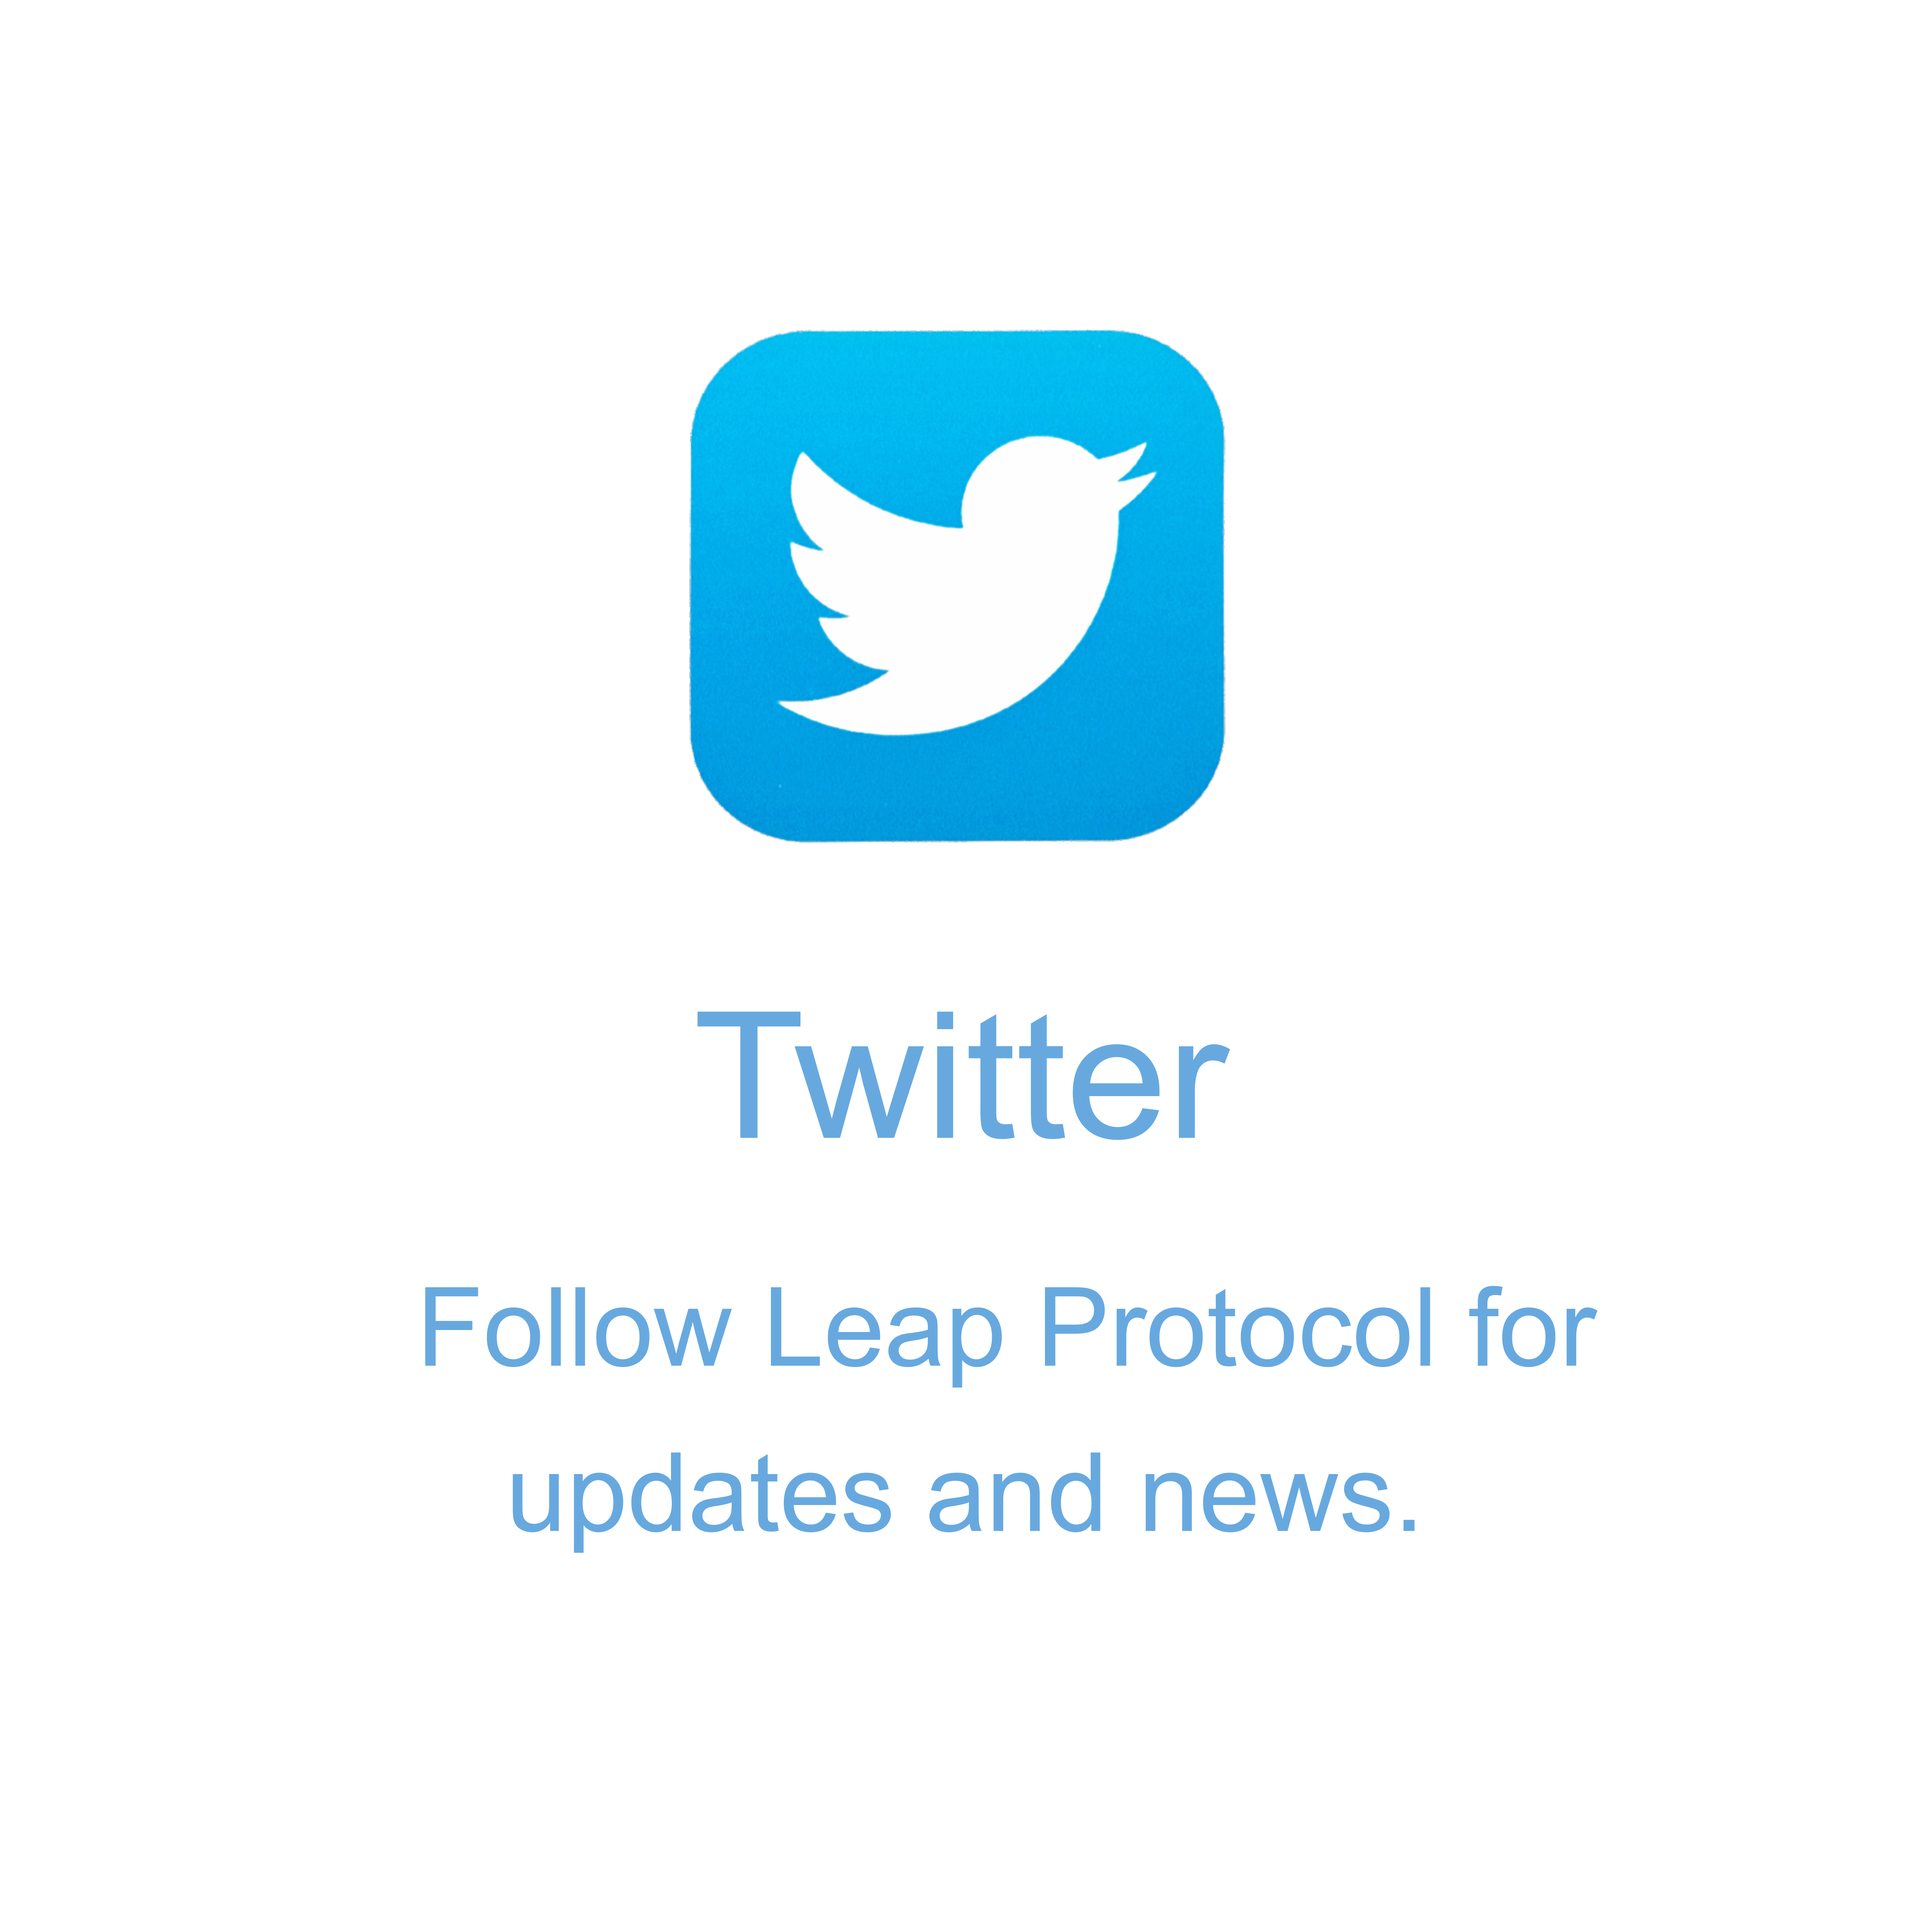
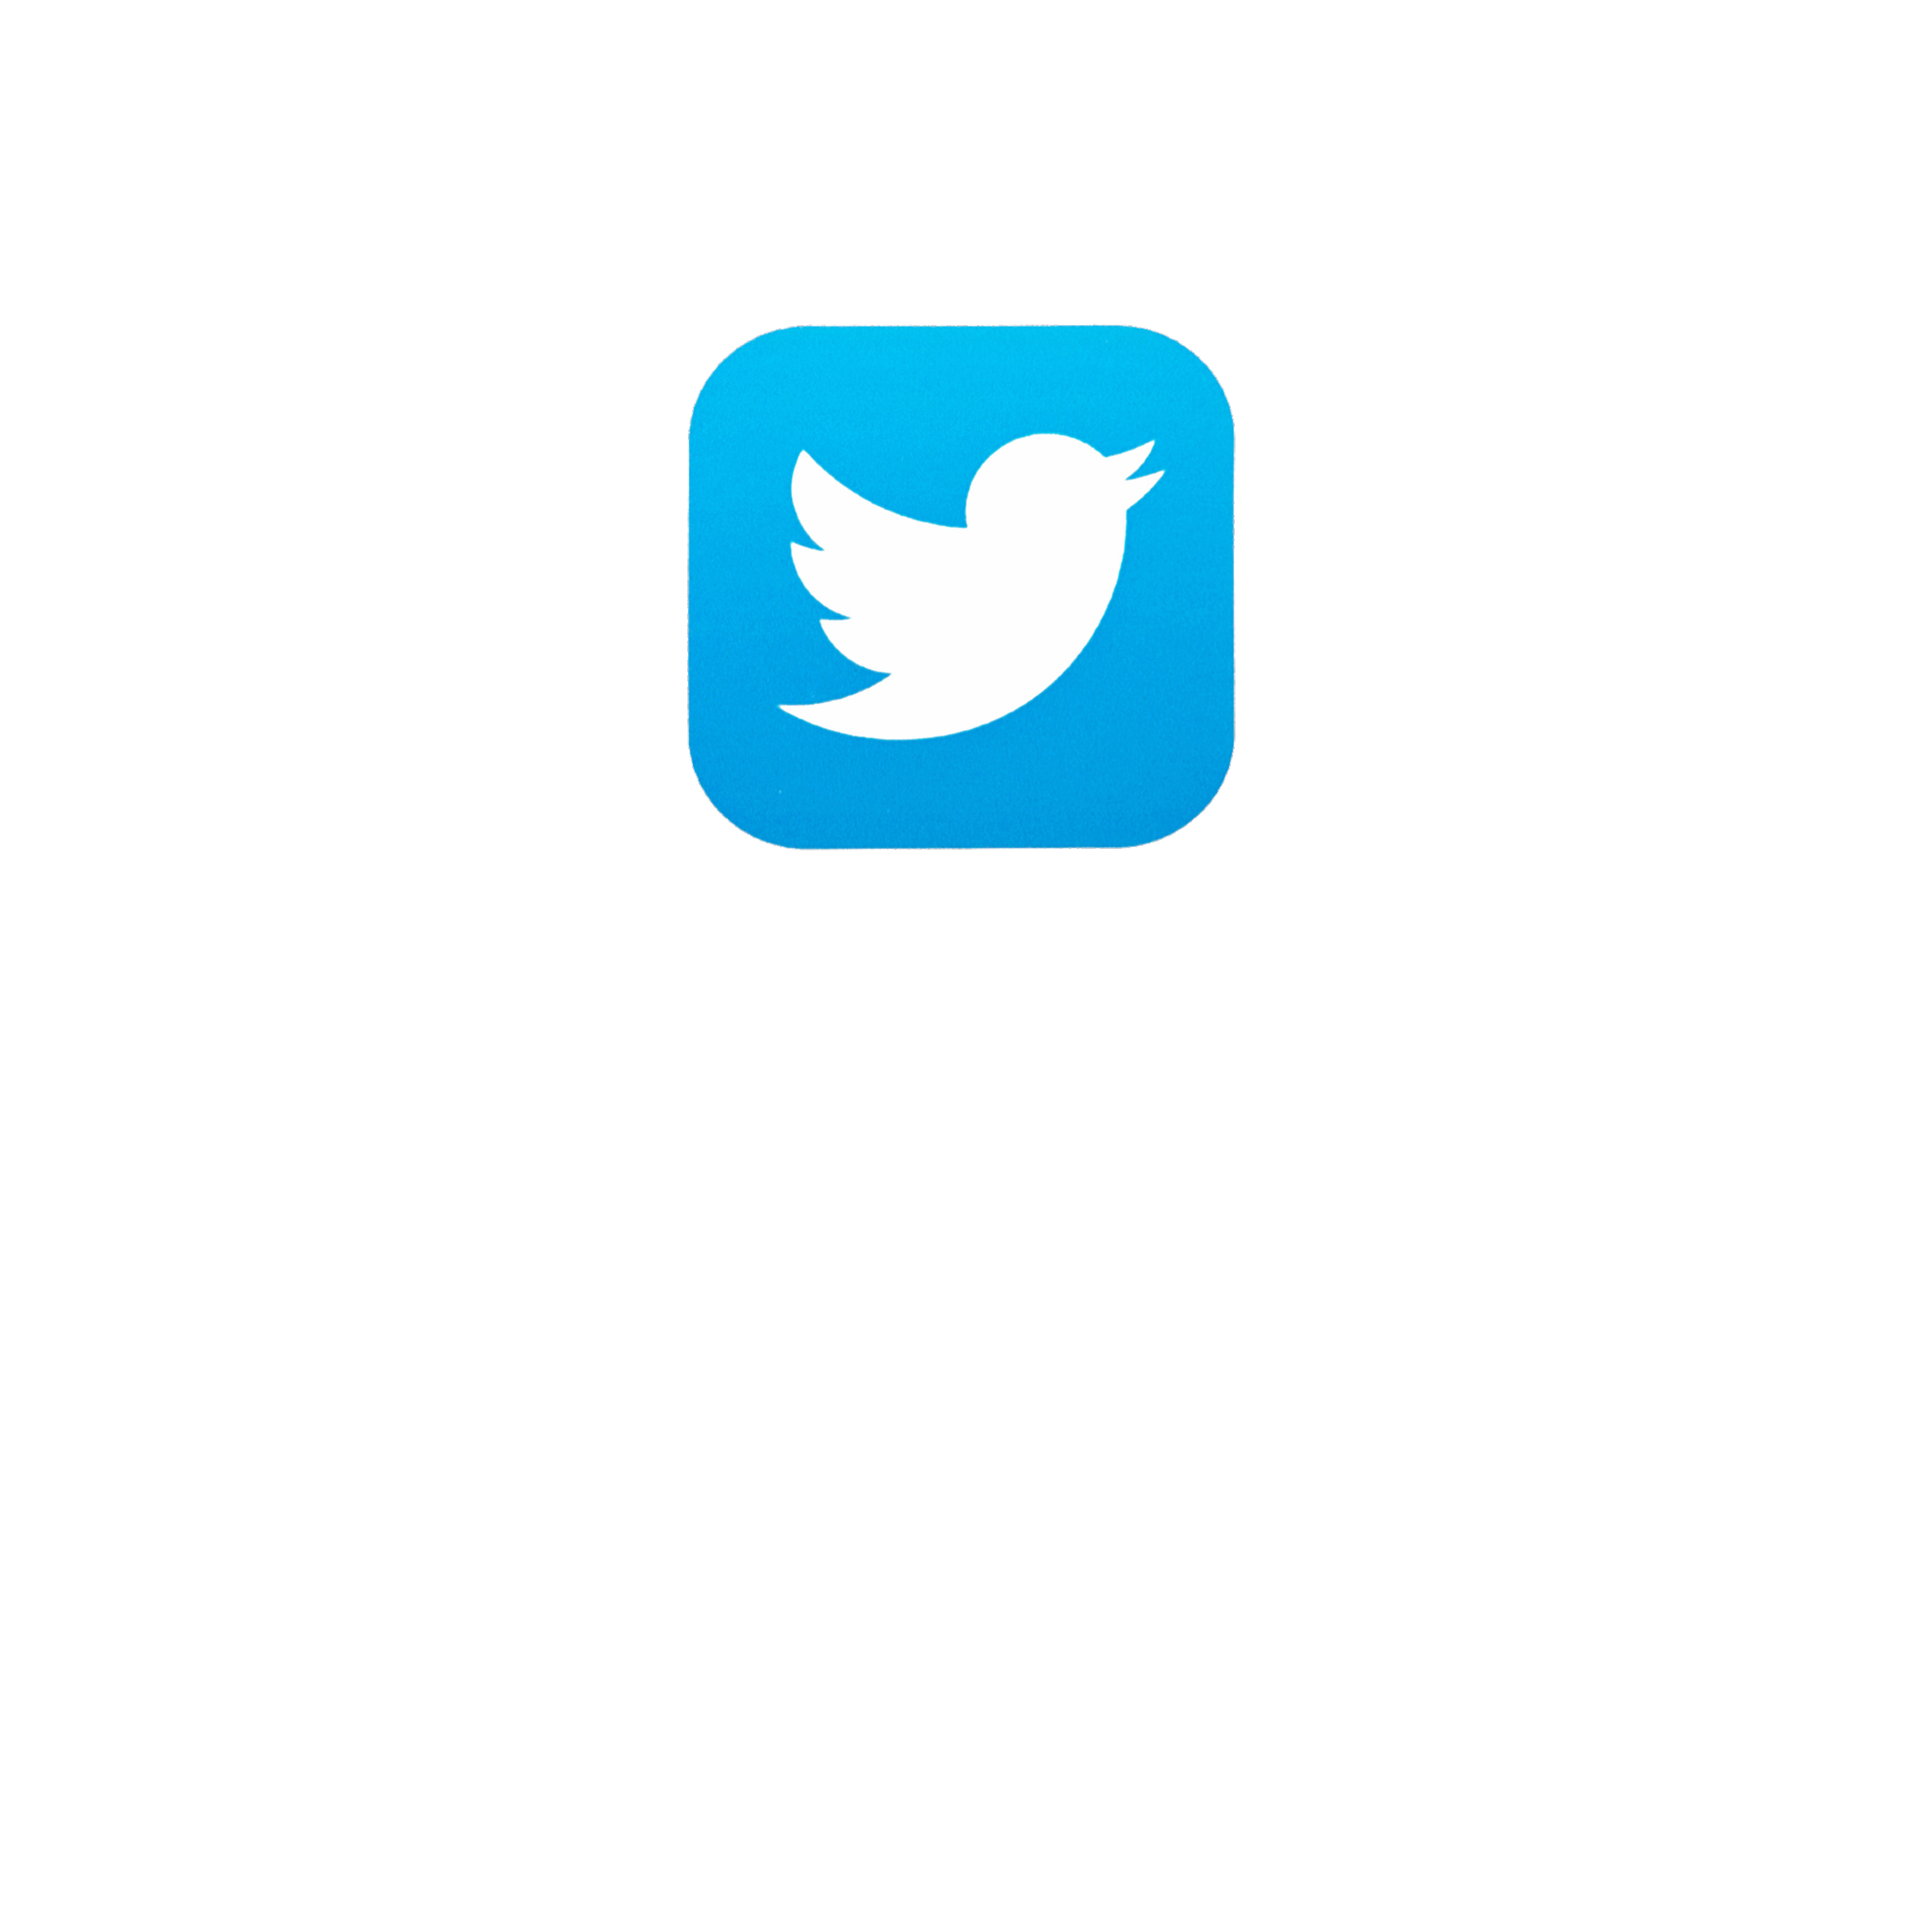
updated social media images

diff --git a/src/pages/index.js b/src/pages/index.js
@@ -11,6 +11,7 @@ import Wizard2 from '../components/wizard2'
 import ProtocolData from '../components/protocolData'
 import { useDarkMode } from '../contexts/Application'
 import { CardBGImage, CardFade, CardNoise, StyledExternalLink } from '../components/utils'
+import { SocialIcon } from 'react-social-icons';
 
 const BGCard = styled.span`
   width: 100vw;
@@ -182,6 +183,17 @@ const StyledItemRow = styled.nav`
     box-sizing: border-box;
     transition: right 0.25s ease;
   }
+`
+
+const StyledSocialRow = styled.div`
+  display: flex;
+  justify-content:center;
+  height: 20px;
+  width: 100%;
+`
+
+const StyledSocialIcon = styled(SocialIcon)`
+  margin: 0 2%;
 `
 
 const StyledHeroImage = styled(Img)`
@@ -505,35 +517,8 @@ const DeveloperSection = props => {
 const ProductsSection = props => {
   return (
     <>
-      {/* <StyledSectionTitle>A suite of tools for a tokenized world.</StyledSectionTitle>
-      <StyledBodySubText>
-        We build state of the art open source apps to access the Uniswap protocol and contribute to the world of
-        decentralized finance.
-      </StyledBodySubText>
-      <StyledItemRow>
-        <StyledExternalLink href={'https://socks.uniswap.org'} target="_blank">
-          <StyledProductImage fadeIn={false} fluid={props.data.socks.childImageSharp.fluid} />
-        </StyledExternalLink>
-        <StyledExternalLink href={'https://info.uniswap.org'} target="_blank">
-          <StyledProductImage fadeIn={false} fluid={props.data.info.childImageSharp.fluid} />
-        </StyledExternalLink>
-        <StyledExternalLink href={'https://app.uniswap.org'} target="_blank">
-          <StyledProductImage fadeIn={false} fluid={props.data.swap.childImageSharp.fluid} />
-        </StyledExternalLink>
-        <StyledExternalLink href={'https://tokenlists.org'} target="_blank">
-          <StyledProductImage fadeIn={false} fluid={props.data.tokenlists.childImageSharp.fluid} />
-        </StyledExternalLink>
-        <StyledExternalLink href={'https://sybil.org'} target="_blank">
-          <StyledProductImage fadeIn={false} fluid={props.data.sybil.childImageSharp.fluid} />
-        </StyledExternalLink>
-      </StyledItemRow> */}
 
       <StyledSectionTitle>We advocate FAIR PLAY</StyledSectionTitle>
-      {/* <StyledBodySubText>
-        Check out the <Link to="/docs/v2/">documentation</Link>, the{' '}
-        <Link to="/docs/v2/javascript-SDK/quick-start/">quick start</Link> or a guide below to integrate your project
-        with thousands of tokens and billions in liquidity.
-      </StyledBodySubText> */}
       <StyledSectionFlex style={{ paddingBottom: '0px', paddingTop: '1rem' }}>
         <Wizard />
       </StyledSectionFlex>
@@ -546,54 +531,16 @@ const ProductsSection = props => {
         <Wizard2 />
       </StyledSectionFlex>
 
-      {/* <StyledItemRow>
-        <StyledExternalLink href={'https://discord.gg/FCfyBSbCU5'} target="_blank">
-          <StyledProductImage fadeIn={false} fluid={props.data.discord.childImageSharp.fluid} />
-        </StyledExternalLink>
-        <StyledExternalLink href={'https://twitter.com/Uniswap'} target="_blank">
-          <StyledProductImage fadeIn={false} fluid={props.data.twitter.childImageSharp.fluid} />
-        </StyledExternalLink>
-        <StyledExternalLink href={'https://gov.uniswap.org/'} target="_blank">
-          <StyledProductImage fadeIn={false} fluid={props.data.discourse.childImageSharp.fluid} />
-        </StyledExternalLink>
-        <StyledExternalLink href={'https://www.reddit.com/r/Uniswap'} target="_blank">
-          <StyledProductImage fadeIn={false} fluid={props.data.reddit.childImageSharp.fluid} />
-        </StyledExternalLink>
-        <StyledExternalLink>
-          Q2 2021
-          <p>-Fair Presales</p>
-          <p>-PancakeSwap listing</p>
-          <p>-Listing (i.e. CoinGecko, CoinMarketCap)</p>
-          <p>-Revamp website</p>
-          <p>-Update whitepaper</p>
-          <p>-Full-scale marketing campaign</p>
-          <p>-Initiate charity initiatives</p>
-        </StyledExternalLink>
-        <StyledExternalLink>
-          Q3 2021
-          <p>-Listing to exchange (i.e. Coinbase, Binance)</p>
-          <p>-Setup of a base for LEAPers in Singapore </p>
-          <p>-Expand core team to include a dedicated legal, finance & charity arm</p>
-          <p>-Expand charity initiatives through community</p>
-          <p>-R&D & Implementation of NFT</p>
-        </StyledExternalLink>
-        <StyledExternalLink>
-          Q4 2021
-         <p>-Become a globally recognise charity institution</p>
-         <p>-Incorporate charity into the core of LEAP</p>
-         <p>-Full-on incorporation of various dApps including NFT & DeFi</p>
-        </StyledExternalLink>
-      </StyledItemRow> */}
-
       <StyledSectionTitle>Join Us</StyledSectionTitle>
       <StyledBodySubText>
-        LEAP Protocol is a community driven token initiative that advocates fairness to all by ensuring a global fair launch, and automatic farming & burning during each trade. Join us and take the LEAP now.      
+        LEAP Protocol is a community driven token initiative that advocates fairness to all by ensuring a global fair launch, automatic farming & burning during each trade. Join us and take the LEAP now.      
       </StyledBodySubText>
-      <StyledItemRow>
+      {/* <StyledItemRow>
         <StyledExternalLink href={'https://discord.gg/KFgS9QsTCg'} target="_blank">
           <StyledProductImage fadeIn={false} fluid={props.data.discord.childImageSharp.fluid} />
         </StyledExternalLink>
-        <StyledExternalLink href={''} target="_blank">
+        
+        <StyledExternalLink href={'https://twitter.com/LeapProtocol'} target="_blank">
           <StyledProductImage fadeIn={false} fluid={props.data.twitter.childImageSharp.fluid} />
         </StyledExternalLink>
         <StyledExternalLink href={'https://t.me/LeapNow'} target="_blank">
@@ -602,7 +549,15 @@ const ProductsSection = props => {
         <StyledExternalLink href={'https://www.reddit.com/r/LeapProtocol/ '} target="_blank">
           <StyledProductImage fadeIn={false} fluid={props.data.reddit.childImageSharp.fluid} />
         </StyledExternalLink>
-        </StyledItemRow>
+      <StyledItemRow/> */}
+      <StyledSocialRow>
+        <StyledSocialIcon url="https://discord.gg/KFgS9QsTCg" target="_blank"/>
+        <StyledSocialIcon url="https://twitter.com/LeapProtocol" target="_blank"/>
+        <StyledSocialIcon url="https://t.me/LeapNow" network="telegram" target="_blank"/>
+        <StyledSocialIcon url="https://www.reddit.com/r/LeapProtocol/" target="_blank"/>
+      </StyledSocialRow>
+
+      
     </>
   )
 }
